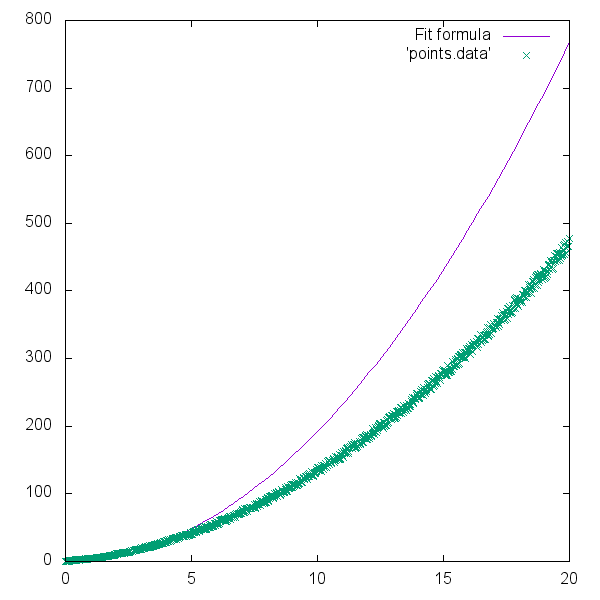
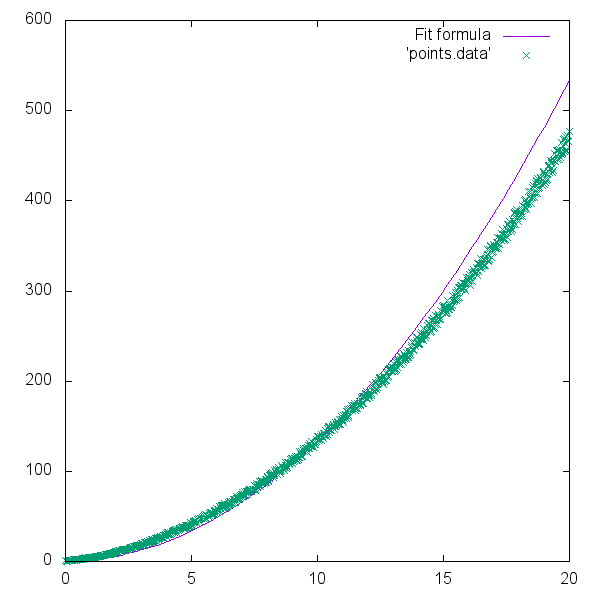
fixes for fit

diff --git a/lib/gnuplotrb/fit.rb b/lib/gnuplotrb/fit.rb
@@ -26,10 +26,10 @@ module GnuplotRB
   #   fit(some_data, function: 'exp(a/x)', initials: {a: 10}, term_option: { xrange: 1..100 })
   #   fit(some_dataset, using: '1:2:3')
   def fit(data, function: 'a2*x*x+a1*x+a0', initials: {a2: 1, a1: 1, a0: 1}, via: nil, term_options: {}, **options)
-  	dataset = case data
+    dataset = case data
               when Dataset
-      	        data.data
-       	      when Datablock
+                data.data
+              when Datablock
                 data
               else
                 Dataset.new(data)

diff --git a/examples/plot_fit_result/plot.rb b/examples/plot_fit_result/plot.rb
@@ -1,7 +1,7 @@
 require 'gnuplotrb'
 include GnuplotRB
 
-fit_result = fit('points.data', using: '1:2:3', function: 'a*x*x + b', initials: { a: 1, b: 1 }, term_options: { xrange: 0..5 })
+fit_result = fit('points.data', using: '1:2:3', function: 'a*x*x + b', initials: { a: 1, b: 1 }, term_options: { xrange: 0..15 })
 
 plot = Plot.new(fit_result[:formula_ds], fit_result[:data])
 
